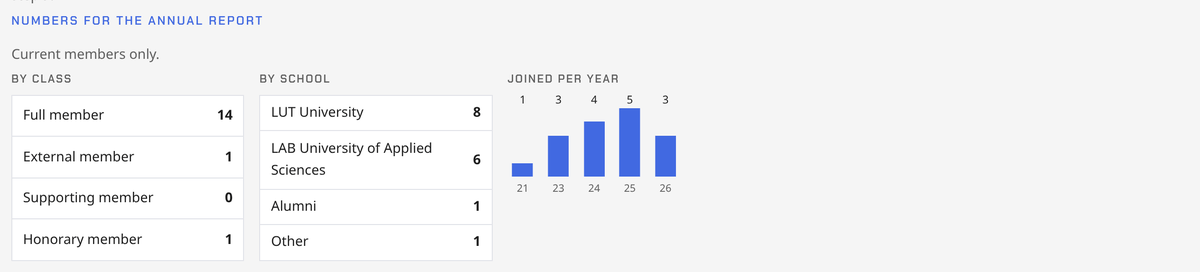
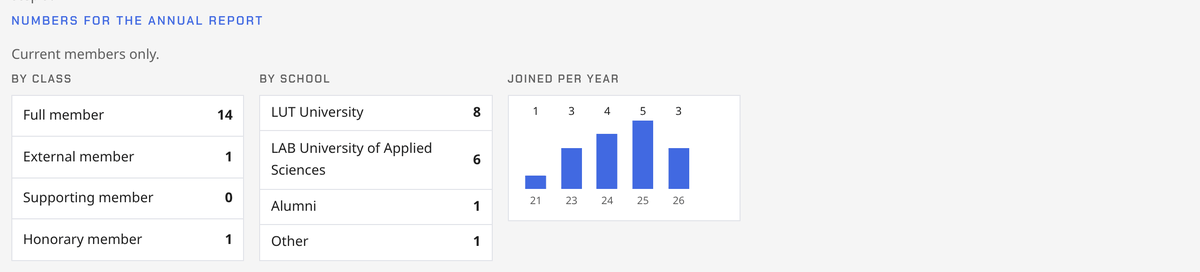
The board's Discord panel is /board, and the year chart gets its box
The /tournament command opened a panel that has long done more than
tournaments (events, brackets, announcements, and now links to the
whitelist, the register and the news), so it is /board, matching the
site's Board tools. Re-register the commands after deploying.

On the register, the joined-per-year bars now sit in the same white box
as the two tables beside them; the guide's picture is retaken.

Claude-Session: https://claude.ai/code/session_019m4NkzFyEy3cwdh3cuTmAt

Changed region(s): [[0.4008, 0.3529, 0.5858, 0.7059]]

diff --git a/src/pages/discord/interactions.ts b/src/pages/discord/interactions.ts
@@ -231,9 +231,9 @@ export const POST: APIRoute = async ({ request, locals, url }) => {
     return json({ type: 5 });
   }
 
-  // /tournament renders the interactive control panel: no database work, so
+  // /board renders the interactive control panel: no database work, so
   // it responds directly instead of deferring.
-  if (interaction.type === 2 && interaction.data?.name === 'tournament') {
+  if (interaction.type === 2 && interaction.data?.name === 'board') {
     if (!isAdmin) {
       return refuse('This needs the admin role.');
     }
@@ -610,13 +610,13 @@ async function memberName(env: WorkerEnv, discordId: string): Promise<string | n
   return row?.username ?? null;
 }
 
-// --- /tournament interactive panel -----------------------------------------
+// --- /board interactive panel ----------------------------------------------
 
-// Two levels: /tournament opens the category chooser, a category button
+// Two levels: /board opens the category chooser, a category button
 // swaps the same ephemeral message to that category's actions, Back returns.
 function controlPanel(origin: string): { content: string; components: unknown[] } {
   return {
-    content: '<:lahtiag:1544775220458430565> **Tournament controls**. Pick a category:',
+    content: '<:lahtiag:1544775220458430565> **Board tools**. Pick a category:',
     components: [
       {
         type: 1,

diff --git a/src/styles/site.css b/src/styles/site.css
@@ -955,6 +955,14 @@ a:hover {
 .year-chart {
   margin: 0;
 }
+/* The bars sit in the same white box as the two tables beside them. */
+.year-chart .year-bars,
+.year-chart .queue-meta {
+  background: var(--surface);
+  border: 1px solid var(--line);
+  padding: 0.7rem 0.8rem;
+  margin: 0;
+}
 .year-chart figcaption {
   font-family: var(--display);
   font-weight: 600;
@@ -1600,7 +1608,7 @@ html.display-mode,
   padding-bottom: 0;
 }
 
-/* live message from the /tournament panel; presenter-screen only */
+/* live message from the /board panel; presenter-screen only */
 .display-note {
   display: none;
 }

diff --git a/docs/OPERATIONS.md b/docs/OPERATIONS.md
@@ -60,7 +60,7 @@ next section.
 
 ## Hosting a tournament, start to finish
 
-Everything can be run from Discord with `/tournament` (admin only, only you
+Everything can be run from Discord with `/board` (admin only, only you
 see the panel). It opens on three categories — **Event**, **Bracket**, and
 **Announce & screen** — and each button below lives in one of them (Back
 returns to the categories):
@@ -252,7 +252,7 @@ channel (the welcome webhook) when the event has none. Never into the
 announcements channel.
 
 **The event list.** When an event is published (or created straight from
-`/tournament`), the bot puts it on Discord's own event list, the "Events"
+`/board`), the bot puts it on Discord's own event list, the "Events"
 entry at the top of the channel list, with the cover picture, the first
 paragraph of the description, the place and the sign-up link. Members can
 mark themselves interested there and Discord reminds them. Edits, a new
@@ -262,7 +262,7 @@ are left alone. An event published before the bot did this has a
 **Create Discord event** button in Board tools → Discord.
 
 **A role and channels.** The Publish card asks what the event gets on
-Discord; events created from `/tournament` get the first option:
+Discord; events created from `/board` get the first option:
 
 - **A role and one channel under Events** (the default). A text channel
   named after the event under an **Events** category the bot creates the
@@ -294,7 +294,7 @@ account and are skipped, and so is anyone who signed up but hasn't joined
 the server yet (they get the role at the next sync after they join).
 
 **The tournament talks in its channel.** Whatever the board does to the
-event, from the site or from `/tournament`, the bot also says in the
+event, from the site or from `/board`, the bot also says in the
 event's discussion channel: signups closed or reopened (with the count),
 the bracket drawn (first-round pairings and who skips ahead, with a ping),
 each recorded result with the winner's next opponent, a reverted result,

diff --git a/docs/BOARD-GUIDE.md b/docs/BOARD-GUIDE.md
@@ -412,7 +412,7 @@ puts it on the page and on Discord.
 - **Board.** `/whitelist add <name>` whitelists anyone, member or not;
   `/whitelist drop <name>` removes any name; lahtiag.fi/whitelist is the
   whole table, linked from Board tools on the events page and from the
-  `/tournament` panel. A former member's names go off the servers on their own.
+  `/board` panel. A former member's names go off the servers on their own.
 - **Actives requests** land in the board channel the same way, with
   Approve and Decline buttons; approving gives the Actives role at once.
 - **A friend who joins.** When a friend becomes a member and whitelists

diff --git a/README.md b/README.md
@@ -4,7 +4,7 @@ The website of LahtiAG (Lahti Association of Gaming LAG ry), live at
 <https://lahtiag.fi>. Astro on a single Cloudflare Worker with D1: Markdown
 content pages, Discord sign-in, events with individual and team signups,
 tournament brackets with a venue presenter mode, news, an iCal feed, and a
-Discord bot that runs the whole tournament day from a `/tournament` panel.
+Discord bot that runs the whole tournament day from a `/board` panel.
 
 **Start with [docs/OPERATIONS.md](docs/OPERATIONS.md)** — the handbook for
 running the site: hosting tournaments, editing pages, the moving parts,
